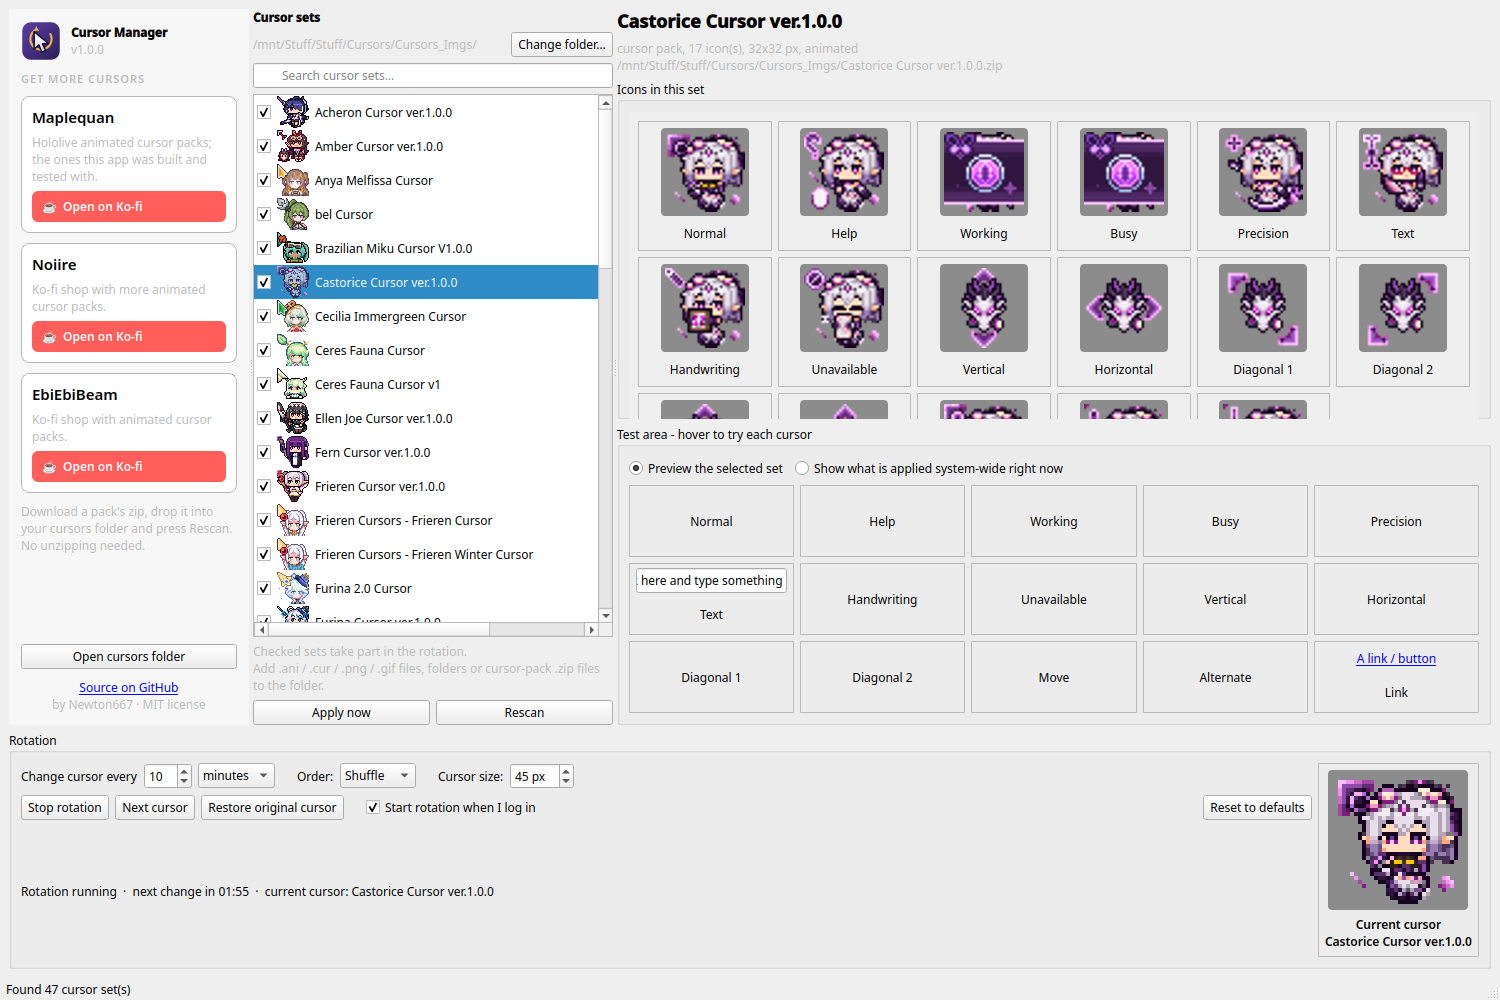
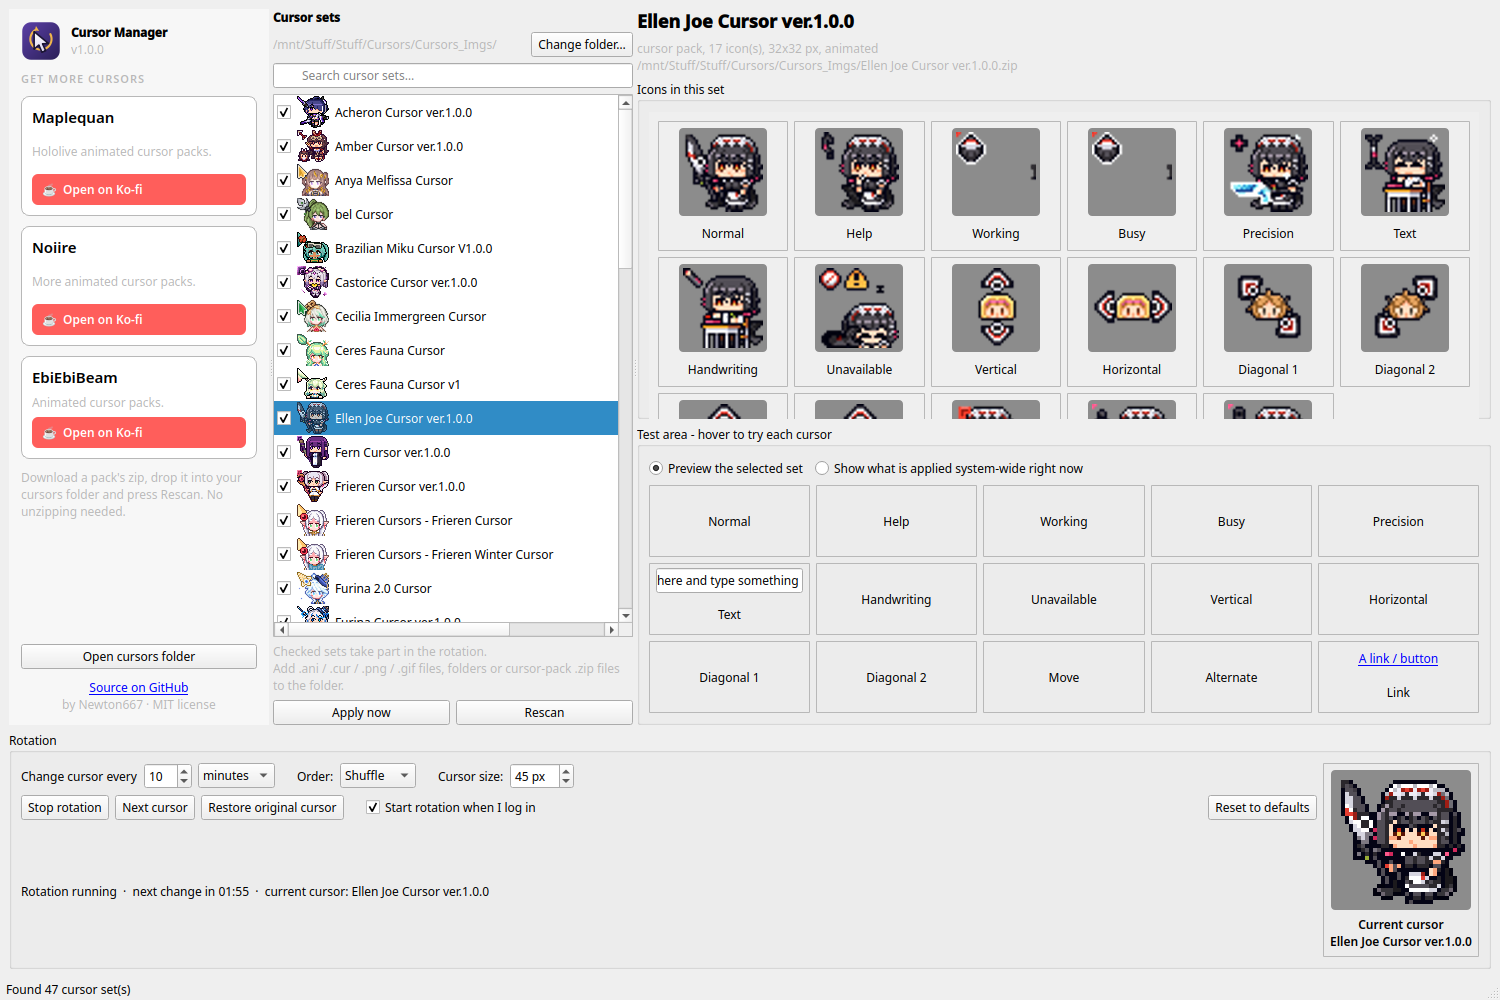
Sidebar: shorter source blurbs, cards grow with wrapped text
Claude-Session: https://claude.ai/code/session_01YFF1xMhhuV48ihvgUNsBYi

diff --git a/cursor_manager/gui.py b/cursor_manager/gui.py
@@ -353,7 +353,7 @@ class MainWindow(QMainWindow):
         splitter.setStretchFactor(0, 0)
         splitter.setStretchFactor(1, 0)
         splitter.setStretchFactor(2, 1)
-        splitter.setSizes([240, 360, 900])
+        splitter.setSizes([260, 360, 880])
 
         # bottom: rotation settings
         rot = QGroupBox("Rotation")
@@ -428,8 +428,8 @@ class MainWindow(QMainWindow):
     def _build_sidebar(self) -> QWidget:
         side = QWidget()
         side.setObjectName("sidebar")
-        side.setMinimumWidth(210)
-        side.setMaximumWidth(300)
+        side.setMinimumWidth(240)
+        side.setMaximumWidth(340)
         side.setStyleSheet("""
             #sidebar { background: palette(alternate-base); }
             #sidebar QFrame#card { background: palette(base); border: 1px solid palette(mid); border-radius: 8px; }
@@ -460,14 +460,18 @@ class MainWindow(QMainWindow):
         for name, url, blurb in config.CURSOR_SOURCES:
             card = QFrame()
             card.setObjectName("card")
+            card.setSizePolicy(QSizePolicy.Policy.Preferred, QSizePolicy.Policy.Minimum)
             cl = QVBoxLayout(card)
             cl.setContentsMargins(10, 10, 10, 10)
             cl.setSpacing(6)
+            cl.setSizeConstraint(QVBoxLayout.SizeConstraint.SetMinimumSize)   # grow with wrapped text
             t = QLabel(name)
             t.setObjectName("cardTitle")
+            t.setWordWrap(True)
             d = QLabel(blurb)
             d.setObjectName("muted")
             d.setWordWrap(True)
+            d.setSizePolicy(QSizePolicy.Policy.Preferred, QSizePolicy.Policy.MinimumExpanding)
             b = QPushButton("☕  Open on Ko-fi")
             b.setObjectName("kofi")
             b.setToolTip(url)

diff --git a/cursor_manager/config.py b/cursor_manager/config.py
@@ -17,11 +17,11 @@ BUNDLED_DIR = PROJECT_DIR / "assets" / "bundled"      # optional local "built-in
 # Places to get animated cursors, shown as links in the app: (name, url, blurb)
 CURSOR_SOURCES = [
     ("Maplequan", "https://ko-fi.com/maplequan",
-     "Hololive animated cursor packs; the ones this app was built and tested with."),
+     "Hololive animated cursor packs."),
     ("Noiire", "https://ko-fi.com/noiire/shop",
-     "Ko-fi shop with more animated cursor packs."),
+     "More animated cursor packs."),
     ("EbiEbiBeam", "https://ko-fi.com/I3I6H9UHF/shop",
-     "Ko-fi shop with animated cursor packs."),
+     "Animated cursor packs."),
 ]
 
 CONFIG_DIR = Path(os.environ.get("XDG_CONFIG_HOME", Path.home() / ".config")) / APP_ID
